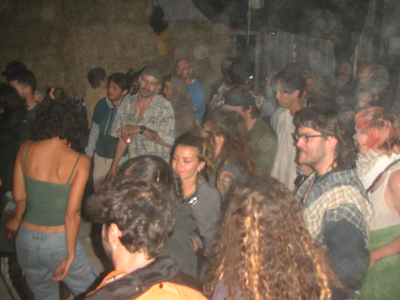
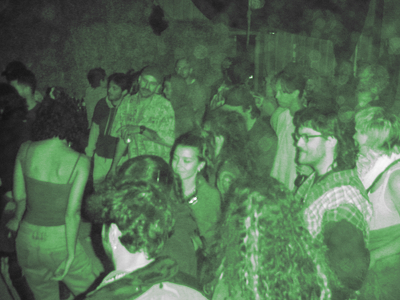
make images green

diff --git a/src/App.tsx b/src/App.tsx
@@ -50,12 +50,12 @@ const App: React.FC = () => {
             <h2 style={{ color: COLORS[2] }}>Tent</h2>
             <h2 style={{ color: COLORS[3] }}>Everybody</h2>
           </div>
-          <div className="ticket-window left" style={{ width: "fit-content" }}>
+          <div className="ticket-window left" style={{ width: "180px" }}>
             <p style={{ color: COLORS[0] }}>Aug 4th - Aug 6th</p>
             <p style={{ color: COLORS[1] }}>
               <b>£75</b>
             </p>
-            <p style={{ color: COLORS[2], marginBottom: 8 }}>
+            <p style={{ color: COLORS[2], marginBottom: 24 }}>
               <b>120 bodies</b>
             </p>
             <button
@@ -71,10 +71,14 @@ const App: React.FC = () => {
                 color: "#26256B",
                 border: "2px solid #26256B",
                 cursor: "pointer",
+                marginBottom: 16,
               }}
             >
               Execute Purchase
             </button>
+            <p style={{ color: COLORS[2], marginBottom: 8, fontSize: 12 }}>
+              lineup to be announced
+            </p>
           </div>
         </div>
         <div
@@ -94,6 +98,7 @@ const App: React.FC = () => {
               height: "100%",
               position: "absolute",
             }}
+            className="img-1"
           />
           <img
             src={`/images/${rand1}.jpg`}
@@ -104,6 +109,7 @@ const App: React.FC = () => {
               opacity: 0.5,
               position: "absolute",
             }}
+            className="img-2"
           />
           <img
             src={`/images/sinan.jpeg`}
@@ -113,6 +119,7 @@ const App: React.FC = () => {
               height: "100%",
               position: "absolute",
               display: isSlim ? "block" : "none",
+              filter: "grayscale(1)",
             }}
           />
         </div>

diff --git a/src/index.scss b/src/index.scss
@@ -425,3 +425,16 @@ $breakpoints: (
     animation-name: dots-3;
     -webkit-animation-name: dots-3;
 }
+
+.img-1 {
+  position: relative;
+}
+
+.img-1::before {
+  content: "";
+  display: inline-block;
+  background-color: green;
+  width: 100%;
+  height: 100%;
+  position: absolute;
+}
